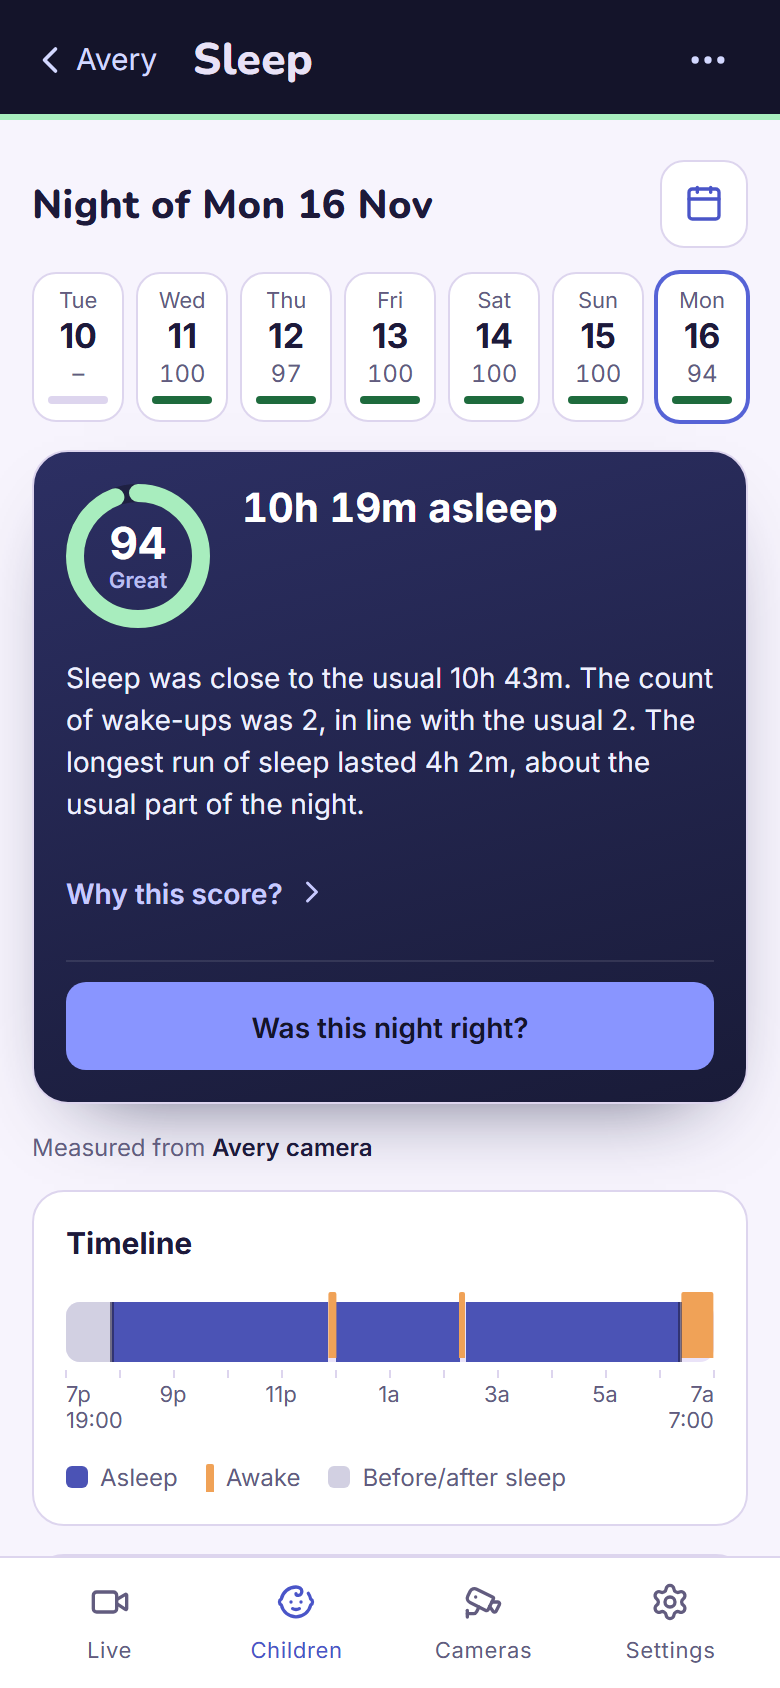
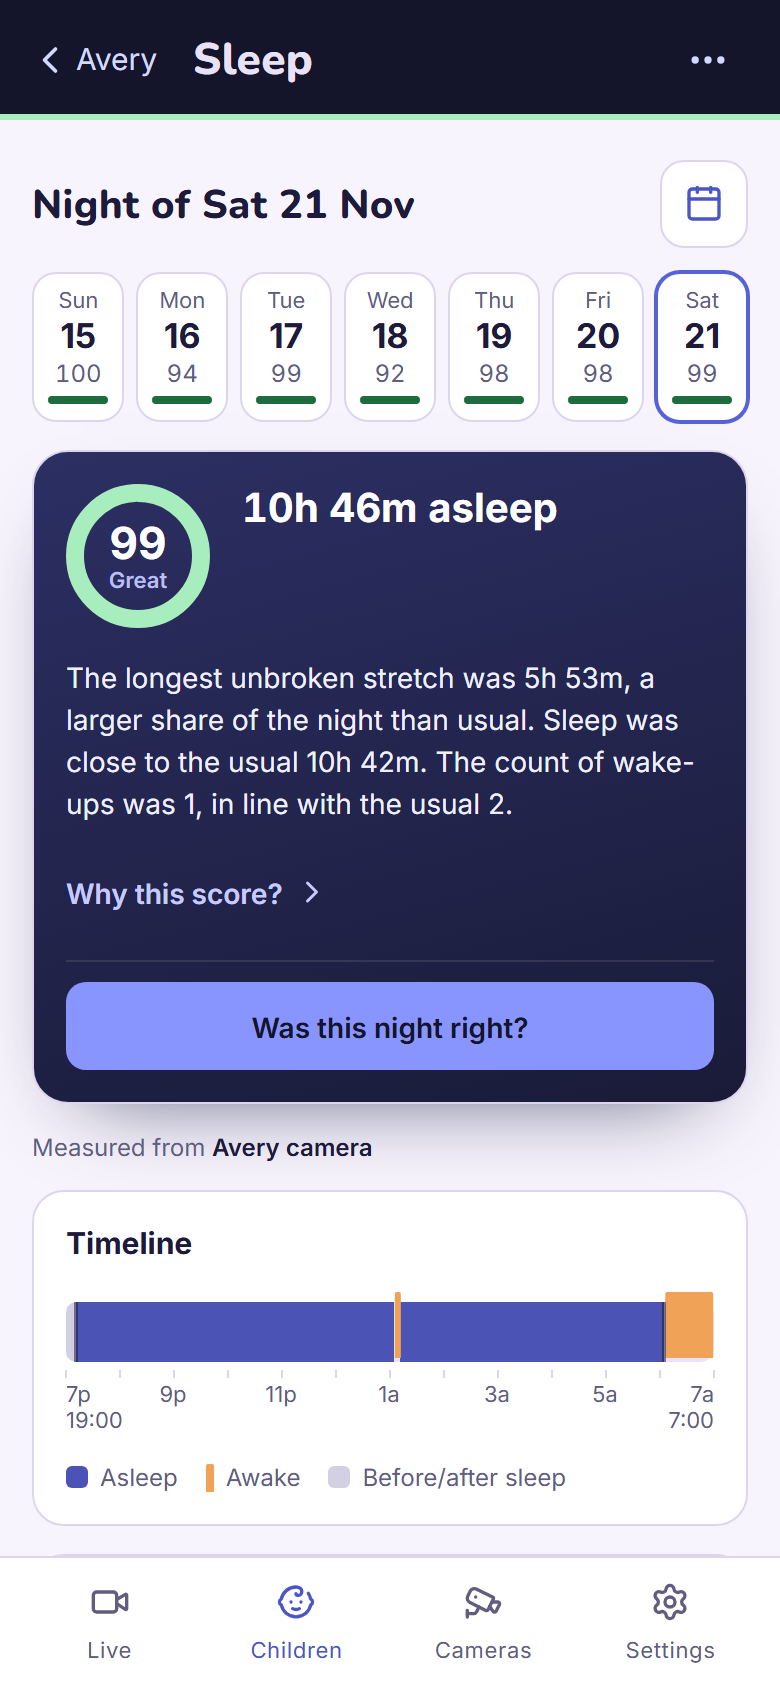
README: a Sleep scoring and night analysis section, with new walkthrough screenshots
The README gets a short section after "What can it do?": three framed phone screenshots (the night at a glance,
"Why this score?", wake-ups and timelapse), the score measured against the child's own nights and its five parts,
the plain-sentence summary, the timeline with "No data" for unwatched minutes, the morning check, the month strip
and the optional extras, then the estimate-not-medical note and a link to the guide. The visual walkthrough shows
the same three screens plus the sleep page on a computer.

The captures come from the walkthrough tooling (e2e/walkthrough/capture.mjs gains the "Why this score?" sheet,
the wake-ups list and a desktop sleep page; the sleep phone shot is refreshed to the current night). Only the sleep
screenshots are committed; the other images that a full run also rewrites are left as they were.

diff --git a/README.md b/README.md
@@ -102,6 +102,33 @@ The app uses host networking, so Nightlight is served on port 4000 of the Home A
 
 **Mobile access.** Use the installable web app or the [Android and iOS companion apps](https://github.com/sauso/nightlight-mobile), including supported background audio features. The apps are installed from GitHub rather than an app store (the iOS app is sideloaded).
 
+## Sleep scoring and night analysis
+
+Nightlight turns what your cameras already see and hear into a clear picture of each child's night. There is nothing to wear and no extra hardware to buy.
+
+<table>
+  <tr>
+    <th width="33%" align="center">The night at a glance</th>
+    <th width="33%" align="center">Why this score?</th>
+    <th width="33%" align="center">Wake-ups and timelapse</th>
+  </tr>
+  <tr>
+    <td align="center"><img src="docs/screenshots/framed/sleep-mobile.png" alt="A night's score, a plain-English summary and the timeline on a phone" width="230"></td>
+    <td align="center"><img src="docs/screenshots/framed/sleep-score-mobile.png" alt="The five parts of a sleep score, each shown next to the child's usual, on a phone" width="230"></td>
+    <td align="center"><img src="docs/screenshots/framed/sleep-wakeups-mobile.png" alt="A night's timeline, its timelapse and its wake-ups on a phone" width="230"></td>
+  </tr>
+</table>
+
+- **A score measured against the child, not a chart.** Each finished night gets a score from 0 to 100, compared with that child's own recent nights. It reads Great, Good or Fair. Until Nightlight has seven nights to compare with, it is an early estimate.
+- **It shows its working.** Tap **Why this score?** to see the five parts (how long they slept, how unbroken the night was, how long they took to settle, how restless they were and how regular their times are), each next to the child's usual.
+- **The night in plain sentences.** For example: "The longest unbroken stretch was 5h 53m, a larger share of the night than usual." The sentences come from a fixed set of phrases filled in with the night's own figures. They describe and compare; they never give advice.
+- **A timeline you can read.** A to-scale bar of asleep, stirring and awake stretches, with each wake-up, when they got into bed and when they got up. Minutes the camera could not watch show as **No data** instead of being guessed.
+- **Check it, correct it.** The morning after, Nightlight asks whether the wake-up time was right. Your answer corrects that night and is kept.
+- **A month at a glance.** A strip of seven nights with a calendar behind it, so you can see how this week compares.
+- **Optional extras.** A timelapse of each night, clips of wake-ups if you turn recording on, the room temperature, and heart and breathing rate from a compatible [ESPHome](docs/esphome.md) radar sensor, shown beside the night.
+
+These are estimates from movement and sound, not a medical measurement. Nightlight does not measure sleep stages, and a score is no reason to worry on its own. [How sleep tracking works](docs/sleep-tracking.md) explains each part, what "usual" means and the known limits.
+
 ## Privacy and safety
 
 Nightlight doesn't require a Nightlight cloud account or send your video to a Nightlight-hosted service. That doesn't mean every optional connection stays on your network:

diff --git a/CHANGELOG.md b/CHANGELOG.md
@@ -19,6 +19,7 @@ features, patch bumps for fixes. History before 0.1.0 exists only as git history
 
 ### Changed
 
+- The README has a **Sleep scoring and night analysis** section, and the visual walkthrough shows the sleep page's **Why this score?** sheet, its wake-ups and timelapse, and the sleep page on a computer. Documentation only; nothing in the app changes.
 - On a night's sleep page, where the heart-rate or breathing sensor gave no reading for more than 10 minutes, the track now joins the two sides with a dashed line and a legend, "Estimated: no data was available", instead of leaving a blank. The solid line still shows real readings only; nothing is drawn before the first or after the last reading.
 - Brief sound with no nearby movement no longer counts as awake once a child is asleep unless an alert clip was labelled as crying. Sound lasting 20 or more consecutive minutes still counts as awake, even without movement; the bedtime search for sleep onset continues to ignore it. Stored nights are not recomputed, so expect a step in the sleep-score trend (#1159).
 

diff --git a/docs/README.md b/docs/README.md
@@ -75,6 +75,16 @@ Tap the summary card to open the night. The strip at the top moves between night
 
 ![A night's detail on a phone](screenshots/sleep-mobile.png)
 
+**Why this score?** opens the five parts of the score, each shown next to the child's usual. Under the timeline are that night's timelapse and the wake-ups.
+
+![The five parts of a sleep score on a phone](screenshots/sleep-score-mobile.png)
+
+![A night's wake-ups and timelapse on a phone](screenshots/sleep-wakeups-mobile.png)
+
+On a computer the same page keeps the strip of nights, the score and the timeline in one column beside the sidebar.
+
+![A night's detail on desktop](screenshots/sleep-desktop.png)
+
 ### 5. Check the estimate
 
 The morning check asks one question: is the wake time right? Choose **That's right**, or **Not quite** and enter the right time. Changing the bedtime, or saying no one was in the bed, is below it.
